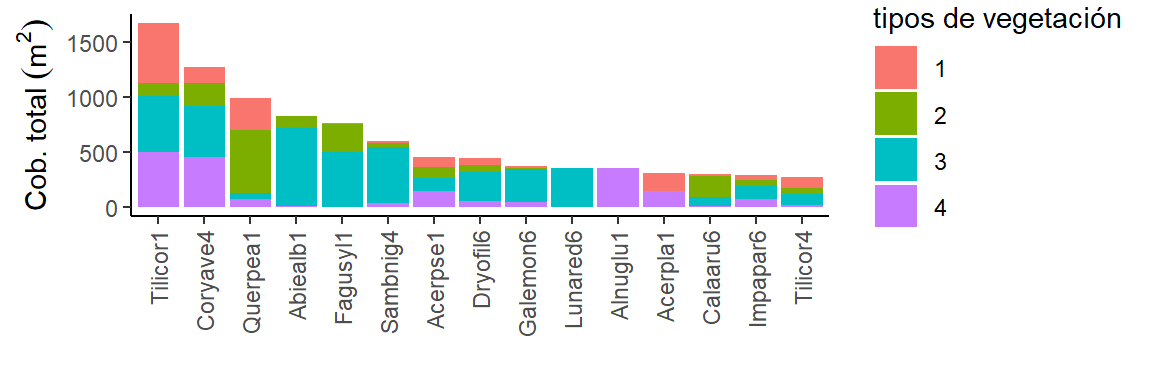
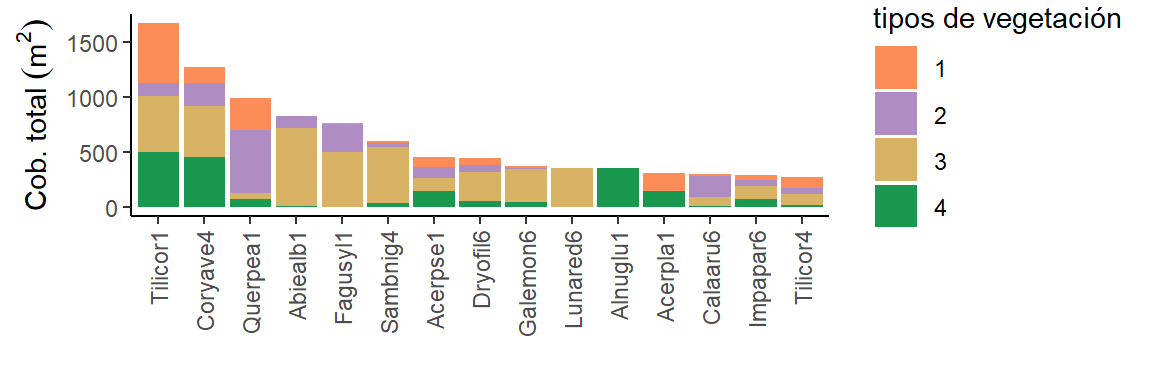
Si

Changed region(s): [[0.0938, 0.2188, 0.7188, 0.5625], [0.75, 0.2188, 0.8125, 0.5938]]

diff --git a/Informe_2doseguimiento_V2.html b/Informe_2doseguimiento_V2.html
@@ -172,7 +172,7 @@ div.csl-indent {
   <li><a href="#diferencias-en-la-altitud-y-orientación-de-las-parcelas-de-acuerdo-a-los-tipos-de-vegetación" id="toc-diferencias-en-la-altitud-y-orientación-de-las-parcelas-de-acuerdo-a-los-tipos-de-vegetación" class="nav-link" data-scroll-target="#diferencias-en-la-altitud-y-orientación-de-las-parcelas-de-acuerdo-a-los-tipos-de-vegetación"><strong>-Diferencias en la altitud y orientación de las parcelas de acuerdo a los tipos de vegetación</strong></a></li>
   <li><a href="#diferencias-en-las-condiciones-ambientales-entre-los-tipos-de-vegetación" id="toc-diferencias-en-las-condiciones-ambientales-entre-los-tipos-de-vegetación" class="nav-link" data-scroll-target="#diferencias-en-las-condiciones-ambientales-entre-los-tipos-de-vegetación"><strong>-Diferencias en las condiciones ambientales entre los tipos de vegetación</strong></a></li>
   <li><a href="#comparación-de-las-condiciones-de-suelo-en-los-distintos-tipos-de-vegetación" id="toc-comparación-de-las-condiciones-de-suelo-en-los-distintos-tipos-de-vegetación" class="nav-link" data-scroll-target="#comparación-de-las-condiciones-de-suelo-en-los-distintos-tipos-de-vegetación"><strong>-Comparación de las condiciones de suelo en los distintos tipos de vegetación</strong></a></li>
-  <li><a href="#comparación-del-area-de-cobertura-contribuida-por-las-15-especies-más-representativas-en-la-totalidad-de-las-parcelas" id="toc-comparación-del-area-de-cobertura-contribuida-por-las-15-especies-más-representativas-en-la-totalidad-de-las-parcelas" class="nav-link" data-scroll-target="#comparación-del-area-de-cobertura-contribuida-por-las-15-especies-más-representativas-en-la-totalidad-de-las-parcelas"><strong>-Comparación del area de cobertura contribuida por las 15 especies más representativas en la totalidad de las parcelas</strong></a></li>
+  <li><a href="#comparación-del-area-de-cobertura-contribuida-por-las-15-especies-con-más-cobertura-en-la-totalidad-de-las-parcelas" id="toc-comparación-del-area-de-cobertura-contribuida-por-las-15-especies-con-más-cobertura-en-la-totalidad-de-las-parcelas" class="nav-link" data-scroll-target="#comparación-del-area-de-cobertura-contribuida-por-las-15-especies-con-más-cobertura-en-la-totalidad-de-las-parcelas"><strong>-Comparación del area de cobertura contribuida por las 15 especies con más cobertura en la totalidad de las parcelas</strong></a></li>
   </ul></li>
   <li><a href="#evaluar-el-efecto-de-las-condiciones-ambientales-sobre-la-composición-y-riqueza-de-plantas-en-los-valles-profundos-del-río-moldavia" id="toc-evaluar-el-efecto-de-las-condiciones-ambientales-sobre-la-composición-y-riqueza-de-plantas-en-los-valles-profundos-del-río-moldavia" class="nav-link" data-scroll-target="#evaluar-el-efecto-de-las-condiciones-ambientales-sobre-la-composición-y-riqueza-de-plantas-en-los-valles-profundos-del-río-moldavia"><strong>3.</strong> Evaluar el efecto de las condiciones ambientales sobre la composición y riqueza de plantas en los valles profundos del río Moldavia</a></li>
   </ul>
@@ -356,7 +356,7 @@ div.csl-indent {
 <h2 class="anchored" data-anchor-id="determinar-la-relación-entre-las-variables-ambientales-evaluadas-en-los-valles-profundos-del-rió-de-moldavia"><strong>1. Determinar la relación entre las variables ambientales evaluadas en los valles profundos del rió de Moldavia</strong></h2>
 <section id="relación-entre-variables-topográficas-y-topológicas" class="level3">
 <h3 class="anchored" data-anchor-id="relación-entre-variables-topográficas-y-topológicas"><strong>-Relación entre variables topográficas y topológicas</strong></h3>
-<p>A partir de correlogramas se puede tener una vista general de la relaciones entre las variables, visualizando el grado de correlación con el indice de Spearman y el nivel de significancia de estas relaciones. Por ejemplo, la <a href="#fig-fig1" class="quarto-xref">Figura&nbsp;1</a> refleja la estrecha relación positiva entre las variables de orientación suroeste y la orientación sur-suroeste con un valor de 0.83 de correlación entre sus datos con el mayor nivel de significancia(p-value&lt;0.001), así mismo pasaría con los indices de capacidad calorifica que se derivan de estos, los cuales tienen una correlación positiva entre si, en la que las variaciones de uno se explicarian por las variaciones del otro en el 0.79 de los datos, esto se entiende ya que el cambio en la orientación suroeste entre las parcelas también deberia ser acompoñada por cambios en la orientación sur-suroeste. El tipo de relieve a favor de la pendiente tiende a ser más convexa a medida que aumenta la altitud, esto se evidencia por un grado de correlación del 0.62 . Entre los tipos de suelo, el fluvisol tiene una correlación considerablemente negativa con la altitud y las superficies en dirección a la pendiente (-0.62 y -0.67), teniendo el mayor nivel de significancia.</p>
+<p>A partir de correlogramas se puede tener una vista general de la relaciones entre las variables, visualizando el grado de correlación con el indice de Spearman y el nivel de significancia de estas relaciones. Por ejemplo, la <a href="#fig-fig1" class="quarto-xref">Figura&nbsp;1</a> refleja la estrecha relación positiva entre las variables de orientación suroeste y la orientación sur-suroeste con un valor de 0.83 de correlación entre sus datos con el mayor nivel de significancia(p-value&lt;0.001), así mismo pasaría con los indices de carga calorifica que se derivan de estos, los cuales tienen una correlación positiva entre si, en la que las variaciones de uno se explicarian por las variaciones del otro en el 0.79 de los datos, esto se entiende ya que el cambio en la orientación suroeste entre las parcelas también deberia ser acompoñada por cambios en la orientación sur-suroeste. El tipo de relieve a favor de la pendiente tiende a ser más convexa a medida que aumenta la altitud, esto se evidencia por un grado de correlación del 0.62 . Entre los tipos de suelo, el fluvisol tiene una correlación considerablemente negativa con la altitud y las superficies en dirección a la pendiente (-0.62 y -0.67), teniendo el mayor nivel de significancia.</p>
 <div class="cell">
 <details class="code-fold">
 <summary>Código</summary>
@@ -609,7 +609,7 @@ Figura&nbsp;4: Análisis por componentes principales a partir de los dos primero
 <p>La <a href="#fig-fig4" class="quarto-xref">Figura&nbsp;4</a> nos presenta los resultados del análisis por componentes principales, en el que la variación se da en función de tres conjuntos de variables. Uno de ellos está conformado por la orientación sur-suroeste, la temperatura, la continentalidad, la carga calorífica y la luz, los cuales tienen direcciones casi ortogonales respecto al resto de las variables. Otro conjunto está compuesto por la pendiente, la superficie en pendiente, la superficie en isohipsas y la elevación, en dirección contraria al primer grupo. Por lo tanto, es probable que estas variables tengan una relación negativa con el tercer conjunto, que incluye la humedad, la reactividad, los nutrientes del suelo, el pH, la temperatura y la continentalidad del clima.</p>
 <p>En cuanto a los factores de agrupación, se podría interpretar que los suelos con condición de fluvisol, esqueléticos y líticos están más asociados a un grupo de variables, mientras que los cambisoles muestran una asociación menos estrecha con un grupo particular, lo que genera una elipse bastante amplia a lo largo de los ejes. No obstante, se requieren análisis exploratorios confirmatorios, ya que el porcentaje de variación acumulado entre los dos componentes principales podría no ser suficiente para una interpretación correcta (51.7%).</p>
 <p>En el caso de los fluvisoles, estos son suelos con altos valores de humedad, nutrientes, reactividad, profundidad y pH. El tipo de suelo esquelético evidencia la misma tendencia, pero con una concentración de datos hacia valores más intermedios en estas variables, lo que genera una elipse más amplia hacia el centro de los ejes. Es importante destacar que la relación positiva con estas variables refleja a su vez una relación negativa con las variables que se representan con vectores con sentido contrario a estas, como la elevación, la pendiente y el tipo de superficie o relieve. Esta última corresponde a una variable tricotómica, donde el valor -1 indica un tipo de relieve cóncavo. De manera que los suelos fluvisoles y esqueléticos tienen mayor incidencia en relieves cóncavos, disminuyendo a medida que el relieve se vuelve más convexo (<a href="#fig-fig5" class="quarto-xref">Figura&nbsp;5</a> B y E).</p>
-<p>Estas características le otorgan a los sitios la capacidad de ser sumideros, acumulando humedad, nutrientes y sedimentos, lo que favorece una mayor profundidad del suelo, como evidencian los resultados del PCA (<a href="#fig-fig4" class="quarto-xref">Figura&nbsp;4</a>) y los gráficos exploratorios de la <a href="#fig-fig5" class="quarto-xref">Figura&nbsp;5</a> (E y F). Por otro lado, los suelos líticos y cambisoles tienden a aumentar su incidencia a medida que incrementa la altitud y la pendiente, manteniéndose en relieves neutros o convexos (<a href="#fig-fig5" class="quarto-xref">Figura&nbsp;5</a> A y C). Esto sugiere que son sitios con menor acumulación y más susceptibles a la escorrentía.</p>
+<p>Estas características le otorgan a los sitios la capacidad de ser sumideros, acumulando humedad, nutrientes y sedimentos, lo que favorece una mayor profundidad del suelo, como evidencian los resultados del PCA (<a href="#fig-fig4" class="quarto-xref">Figura&nbsp;4</a>) y los gráficos exploratorios de la <a href="#fig-fig5" class="quarto-xref">Figura&nbsp;5</a> (E y F). Por otro lado, los suelos líticos y cambisoles tienden a aumentar su incidencia a medida que incrementa la altitud y la pendiente, manteniéndose en relieves neutros o convexos (<a href="#fig-fig5" class="quarto-xref">Figura&nbsp;5</a> A y C). Esto sugiere que son sitios con menor acumulación de recursos.</p>
 <div class="cell">
 <details class="code-fold">
 <summary>Código</summary>
@@ -643,16 +643,16 @@ Figura&nbsp;5: Condiciones ambientales asociadas a los tipos de suelos.A) Porcen
 <span id="cb10-3"><a href="#cb10-3" aria-hidden="true" tabindex="-1"></a><span class="co"># Crear el gráfico</span></span>
 <span id="cb10-4"><a href="#cb10-4" aria-hidden="true" tabindex="-1"></a><span class="fu">ggplot</span>(datos_env) <span class="sc">+</span> </span>
 <span id="cb10-5"><a href="#cb10-5" aria-hidden="true" tabindex="-1"></a>  <span class="fu">geom_point</span>(<span class="fu">aes</span>(<span class="at">x =</span> dirección, <span class="at">y =</span> datos_env<span class="sc">$</span>Elevación, <span class="at">shape =</span> <span class="fu">factor</span>(datos_env<span class="sc">$</span>Grupos), <span class="at">colour =</span> <span class="fu">factor</span>(datos_env<span class="sc">$</span>Grupos)), <span class="at">size =</span> <span class="fl">2.5</span>) <span class="sc">+</span> </span>
-<span id="cb10-6"><a href="#cb10-6" aria-hidden="true" tabindex="-1"></a>  <span class="fu">coord_polar</span>(<span class="at">start =</span> <span class="fl">2.35619</span> ,<span class="at">direction =</span> <span class="sc">-</span><span class="dv">1</span>) <span class="sc">+</span>  <span class="co"># Transforma el gráfico en circular</span></span>
+<span id="cb10-6"><a href="#cb10-6" aria-hidden="true" tabindex="-1"></a>  <span class="fu">coord_polar</span>(<span class="at">start =</span> <span class="fl">5.49778266</span> ,<span class="at">direction =</span> <span class="sc">-</span><span class="dv">1</span>) <span class="sc">+</span>  <span class="co"># Transforma el gráfico en circular</span></span>
 <span id="cb10-7"><a href="#cb10-7" aria-hidden="true" tabindex="-1"></a>  <span class="fu">theme_minimal</span>() <span class="sc">+</span></span>
 <span id="cb10-8"><a href="#cb10-8" aria-hidden="true" tabindex="-1"></a>  <span class="fu">labs</span>(<span class="at">title =</span> <span class="st">"Distribución de los TV en altitud y orientación"</span>,</span>
 <span id="cb10-9"><a href="#cb10-9" aria-hidden="true" tabindex="-1"></a>       <span class="at">x =</span> <span class="st">"Orientación"</span>,</span>
 <span id="cb10-10"><a href="#cb10-10" aria-hidden="true" tabindex="-1"></a>       <span class="at">y =</span> <span class="st">"Altitud"</span>, <span class="at">colour =</span> <span class="st">"TV"</span>,<span class="at">shape =</span><span class="st">"TV"</span>) <span class="sc">+</span> </span>
 <span id="cb10-11"><a href="#cb10-11" aria-hidden="true" tabindex="-1"></a>  <span class="fu">scale_x_continuous</span>(<span class="at">limits =</span> <span class="fu">c</span>(<span class="sc">-</span><span class="dv">180</span>,<span class="dv">180</span>), <span class="at">breaks =</span> <span class="fu">c</span>(<span class="sc">-</span><span class="dv">45</span>,<span class="dv">45</span>,<span class="dv">135</span>,<span class="sc">-</span><span class="dv">135</span>), </span>
-<span id="cb10-12"><a href="#cb10-12" aria-hidden="true" tabindex="-1"></a>                     <span class="at">labels =</span> <span class="fu">c</span>(<span class="st">"E"</span>,<span class="st">"N"</span>,<span class="st">"O"</span>,<span class="st">"S"</span>), <span class="at">minor_breaks =</span> <span class="fu">c</span>(<span class="sc">-</span><span class="dv">90</span>,<span class="dv">0</span>,<span class="dv">90</span>,<span class="dv">180</span>)) <span class="sc">+</span> <span class="co"># Ejes con direcciones cardinales</span></span>
+<span id="cb10-12"><a href="#cb10-12" aria-hidden="true" tabindex="-1"></a>                     <span class="at">labels =</span> <span class="fu">c</span>(<span class="st">"E"</span>,<span class="st">"S"</span>,<span class="st">"O"</span>,<span class="st">"N"</span>), <span class="at">minor_breaks =</span> <span class="fu">c</span>(<span class="sc">-</span><span class="dv">90</span>,<span class="dv">0</span>,<span class="dv">90</span>,<span class="dv">180</span>)) <span class="sc">+</span> <span class="co"># Ejes con direcciones cardinales</span></span>
 <span id="cb10-13"><a href="#cb10-13" aria-hidden="true" tabindex="-1"></a>  <span class="fu">theme</span>(<span class="at">legend.position =</span> <span class="st">"right"</span>) <span class="sc">+</span></span>
 <span id="cb10-14"><a href="#cb10-14" aria-hidden="true" tabindex="-1"></a>  <span class="fu">scale_y_continuous</span>(<span class="at">limits =</span> <span class="fu">c</span>(<span class="dv">380</span>, <span class="dv">540</span>), <span class="at">breaks =</span> <span class="fu">c</span>(<span class="dv">400</span>,<span class="dv">425</span>,<span class="dv">450</span>,<span class="dv">475</span>,<span class="dv">500</span>,<span class="dv">525</span>,<span class="dv">550</span>)) <span class="sc">+</span> <span class="co"># Dejar un espacio en el centro</span></span>
-<span id="cb10-15"><a href="#cb10-15" aria-hidden="true" tabindex="-1"></a><span class="fu">theme_light</span>()</span></code><button title="Copiar al portapapeles" class="code-copy-button"><i class="bi"></i></button></pre></div>
+<span id="cb10-15"><a href="#cb10-15" aria-hidden="true" tabindex="-1"></a><span class="fu">theme_light</span>() <span class="sc">+</span>   <span class="fu">scale_colour_manual</span>(<span class="at">values =</span> <span class="fu">c</span>(<span class="st">"#fc8d59"</span>,<span class="st">"#af8dc3"</span>,<span class="st">"#d8b365"</span>,<span class="st">"#1a9850"</span>))</span></code><button title="Copiar al portapapeles" class="code-copy-button"><i class="bi"></i></button></pre></div>
 </details>
 <div class="cell-output-display">
 <div id="fig-fig10" class="quarto-figure quarto-figure-center quarto-float anchored">
@@ -670,9 +670,10 @@ Figura&nbsp;6: Distribución de los tipos de emsamblajes vegetales en relación 
 </section>
 <section id="diferencias-en-las-condiciones-ambientales-entre-los-tipos-de-vegetación" class="level3">
 <h3 class="anchored" data-anchor-id="diferencias-en-las-condiciones-ambientales-entre-los-tipos-de-vegetación"><strong>-Diferencias en las condiciones ambientales entre los tipos de vegetación</strong></h3>
-<p>La <a href="#fig-fig11" class="quarto-xref">Figura&nbsp;7</a> muestra el patrón de variación de algunas variables topológicas y topográficas entre los diferentes tipos de vegetación evaluados. Se observa que los mayores valores de luz y temperatura se registraron en el ensamblaje tipo 1, seguido por el tipo 2, mientras que los menores valores correspondieron a el tipo 3. Sin embargo, las muescas de las cajas para la luz y la temperatura se solapan entre los tipos de vegetación 1, 2 y 4, lo que sugiere que la posibilidad de no diferencias entre estos grupos. En contraste, las muescas del ensamblaje tipo 1 no se solapan con las de los demás tipos, lo que podría insinuar diferencias ente estos tipos de vegetación.En cuanto a la continentalidad, se observa un patrón decreciente desde el ensamblaje tipo 1 hasta el tipo 4, siendo el ensamblaje tipo 1 el que presenta los valores más altos. Los vegetación tipo 3 y 4 muestran valores menores; y mostrando solapamiento en sus muescas; sin embargo, en el ensamblaje tipo 4 se identifica un valor atípico mayor, que podría estar sesgando los resultados.</p>
-<p>A pesar del patrón decreciente de la continentalidad en los los vegetación vegetales, en sentido 1→ 4, existe un solapamiento de las muescas entre los tipos de (1 y 2), (2, 3 y 4), (3 y 4) lo que podría sugerir falta de diferenciación en la continentalidad entre estos grupos, y un posible anidamiento en esta variable. Los valores más altos de nutrientes se registraron en las vegetaciones tipo 4 y 3, respectivamente, sin aparentes diferencias entre estos dos grupos, aunque en el tipo 4 los datos presentaron menor dispersión. Por otro lado, las muescas de las vegetaciones tipo 1 y 2 no se superponen con las del grupo 3 ni con las del grupo 4, lo que podría inferir posibles diferencias en la cantidad de nutrientes entre estos tipos. Sin embargo, no se encontraron posibles diferencias entre los grupos 1 y 2 debido al solapamiento de sus muescas.</p>
-<p>Respecto a la humedad, se identificaron valores más altos en los vegetación tipo 4, los cuales sugieren ser diferentes en comparación con los demás tipos, dado que sus intervalos de confianza (muescas) no se solapan. Por su parte, aunque las vegetaciones tipo 1 y 2, así como los tipos 2 y 3 presentaron medianas diferentes, sus intervalos de confianza se superponen; por lo tanto, no se sugieren diferencias entre estos pares de grupos. Sin embargo, sí se sugiere diferencias entre los grupos 1 y 3.Finalmente, con relación a la reactividad, los mayores valores se observaron en los vegetación tipo 4. No obstante, las muescas de este grupo se solapan con las de las vegetaciones tipo 1 y 3, por lo que posiblemente se podría considerar la no existencia de diferencia entre estos. En contraste, los vegetación tipo 2 presentó los menores valores de reactividad y sugiere una posible diferencia con respecto a los demás tipos debido a que sus intervalos de confianza no se solapan con ninguna otra caja del gráfico.</p>
+<p>La <a href="#fig-fig11" class="quarto-xref">Figura&nbsp;7</a> muestra el patrón de variación de variables topológicas, topográficas, cobertura y riqueza (a parte de la altura y la orientación) entre los diferentes tipos de vegetación. Evidenciando dos tipos de tendencia, una en la que los sitios con el tipo de vegetación <strong>1</strong>, que se concentran en mayor medida hacia el sur en alturas intermedias y altas, mantienen mayores valores de luz, temperatura, carga calorifica, climas más continentales y pendientes más inclinadas <strong>(A; E; I; C; L)</strong>. Teniendo diferencias aparentemente sustanciales con los tipos de vegetación <strong>2 y 4</strong> y posiblemente significativas con el tipo de vegetación <strong>3</strong> en algunas de estas variables (La falta de solapamiento de muescas no es suficiente para determinar diferencias significativas).</p>
+<p>La otra tendencia se observa en las variables de humedad, nutrientes, reactividad. ph y profundidad del suelo <strong>(B;D;F;G y J)</strong>, que mantiene mayores valores en los sitios con tipo de vegetación <strong>4</strong> que se ubican en zonas de baja altitud, donde hay más sumideros e incidencia de sombra, favoreciendo el efecto de fenomeno de rivera, seguidos por sitios con el tipo de vegetación <strong>3</strong> que se ubican más hacia el norte donde la exposición a los rayos del sol es menor a lo largo del año, por este motivo el tipo de vegetación <strong>3</strong>, mantiene los menores valores de temperatura, luz, clima continental y carga calorifica.</p>
+<ul>
+<li><div>
 <div class="cell">
 <details class="code-fold">
 <summary>Código</summary>
@@ -743,7 +744,7 @@ Figura&nbsp;6: Distribución de los tipos de emsamblajes vegetales en relación 
 <div id="fig-fig11" class="quarto-figure quarto-figure-center quarto-float anchored">
 <figure class="quarto-float quarto-float-fig figure">
 <div aria-describedby="fig-fig11-caption-0ceaefa1-69ba-4598-a22c-09a6ac19f8ca">
-<img src="Informe_2doseguimiento_V2_files/figure-html/fig-fig11-1.png" class="img-fluid figure-img" width="960">
+<img src="Informe_2doseguimiento_V2_files/figure-html/fig-fig11-1.png" class="img-fluid figure-img" width="1152">
 </div>
 <figcaption class="quarto-float-caption-bottom quarto-float-caption quarto-float-fig" id="fig-fig11-caption-0ceaefa1-69ba-4598-a22c-09a6ac19f8ca">
 Figura&nbsp;7: Comparación de las variables topológicas y topográficas en los cuatro tipos de vegetación. A)Luz; B)Temperatura; C)Indice de CC E)Profundidad del suelo; F)Nutrientes; G)pH del suelo; H)Cobertura del suelo(%); I)Humedad; J)Reactividad; K)Riqueza de sps; L)Pendiente (°).
@@ -752,6 +753,8 @@ Figura&nbsp;7: Comparación de las variables topológicas y topográficas en los
 </div>
 </div>
 </div>
+</div></li>
+</ul>
 </section>
 <section id="comparación-de-las-condiciones-de-suelo-en-los-distintos-tipos-de-vegetación" class="level3">
 <h3 class="anchored" data-anchor-id="comparación-de-las-condiciones-de-suelo-en-los-distintos-tipos-de-vegetación"><strong>-Comparación de las condiciones de suelo en los distintos tipos de vegetación</strong></h3>
@@ -775,7 +778,7 @@ Figura&nbsp;7: Comparación de las variables topológicas y topográficas en los
 <span id="cb12-14"><a href="#cb12-14" aria-hidden="true" tabindex="-1"></a>g12 <span class="ot">&lt;-</span> <span class="fu">ggplot</span>(datos_resum2, <span class="fu">aes</span>(<span class="at">x=</span> Grupos , <span class="at">y=</span>datos.sum, <span class="at">fill =</span> Suelos)) <span class="sc">+</span> </span>
 <span id="cb12-15"><a href="#cb12-15" aria-hidden="true" tabindex="-1"></a>     <span class="fu">geom_bar</span>(<span class="at">stat=</span><span class="st">"identity"</span>, </span>
 <span id="cb12-16"><a href="#cb12-16" aria-hidden="true" tabindex="-1"></a>              <span class="at">position=</span> <span class="st">"dodge"</span>) <span class="sc">+</span><span class="fu">theme_classic</span>() <span class="sc">+</span> <span class="fu">theme</span>(<span class="at">axis.text.x =</span> <span class="fu">element_text</span>(<span class="at">angle =</span> <span class="dv">90</span>, <span class="at">vjust =</span> <span class="fl">0.5</span>, <span class="at">hjust=</span><span class="dv">1</span>)) <span class="sc">+</span> <span class="fu">labs</span>(<span class="at">x=</span> <span class="st">"Tipos de vegetación"</span>, <span class="at">y =</span> <span class="st">"Frecuencia"</span>, <span class="at">fill =</span> <span class="st">"Condiciones de suelo"</span>)  <span class="sc">+</span> </span>
-<span id="cb12-17"><a href="#cb12-17" aria-hidden="true" tabindex="-1"></a>  <span class="fu">scale_fill_manual</span>(<span class="at">values =</span> <span class="fu">c</span>(<span class="st">"#d7191c"</span>,<span class="st">"#fdae61"</span>,<span class="st">"#ffffbf"</span>,<span class="st">"#91cf60"</span>))</span>
+<span id="cb12-17"><a href="#cb12-17" aria-hidden="true" tabindex="-1"></a>  <span class="fu">scale_fill_manual</span>(<span class="at">values =</span> <span class="fu">c</span>(<span class="st">"#d7191c"</span>,<span class="st">"#fdae61"</span>,<span class="st">"purple"</span>,<span class="st">"#91cf60"</span>))</span>
 <span id="cb12-18"><a href="#cb12-18" aria-hidden="true" tabindex="-1"></a></span>
 <span id="cb12-19"><a href="#cb12-19" aria-hidden="true" tabindex="-1"></a>g12</span></code><button title="Copiar al portapapeles" class="code-copy-button"><i class="bi"></i></button></pre></div>
 </details>
@@ -793,11 +796,11 @@ Figura&nbsp;8: Comparación de las condiciones de suelo en los distintos tipos d
 </div>
 </div>
 </section>
-<section id="comparación-del-area-de-cobertura-contribuida-por-las-15-especies-más-representativas-en-la-totalidad-de-las-parcelas" class="level3">
-<h3 class="anchored" data-anchor-id="comparación-del-area-de-cobertura-contribuida-por-las-15-especies-más-representativas-en-la-totalidad-de-las-parcelas"><strong>-Comparación del area de cobertura contribuida por las 15 especies más representativas en la totalidad de las parcelas</strong></h3>
-<section id="selección-de-las-15-especies-más-abundantes" class="level4">
-<h4 class="anchored" data-anchor-id="selección-de-las-15-especies-más-abundantes"><strong>Selección de las 15 especies más abundantes</strong></h4>
-<p>Se convierten los porcentajes de cobertura de cada especie a valores en metros cuadrados ($m^2$) para, posteriormente, seleccionar las 15 especies con mayor cobertura. Luego, se determina cuánto contribuye en cobertura cada una de estas especies en los diferentes tipos de vegetación .</p>
+<section id="comparación-del-area-de-cobertura-contribuida-por-las-15-especies-con-más-cobertura-en-la-totalidad-de-las-parcelas" class="level3">
+<h3 class="anchored" data-anchor-id="comparación-del-area-de-cobertura-contribuida-por-las-15-especies-con-más-cobertura-en-la-totalidad-de-las-parcelas"><strong>-Comparación del area de cobertura contribuida por las 15 especies con más cobertura en la totalidad de las parcelas</strong></h3>
+<section id="selección-de-las-15-especies-con-más-cobertura" class="level4">
+<h4 class="anchored" data-anchor-id="selección-de-las-15-especies-con-más-cobertura"><strong>Selección de las 15 especies con más cobertura</strong></h4>
+<p>Se convierten los porcentajes de cobertura de cada especie a valores en metros cuadrados ($m^2$) para, posteriormente, seleccionar las 15 especies con mayor cobertura. Luego, se determina cuánto contribuye en cobertura cada una de estas especies en los diferentes tipos de vegetación.</p>
 <ul>
 <li><strong>Conversión del porcentaje de cobertura a área de cobertura:</strong></li>
 </ul>
@@ -910,7 +913,7 @@ Tabla&nbsp;1: Área de cobertura total de cada especie.
 <summary>Código</summary>
 <div class="sourceCode cell-code" id="cb15"><pre class="sourceCode r code-with-copy"><code class="sourceCode r"><span id="cb15-1"><a href="#cb15-1" aria-hidden="true" tabindex="-1"></a>g11 <span class="ot">&lt;-</span> <span class="fu">ggplot</span>(datos_resum1, <span class="fu">aes</span>(<span class="at">x=</span> <span class="fu">reorder</span>(Especies, <span class="sc">-</span>datos.sum) , <span class="at">y=</span>datos.sum, <span class="at">fill =</span> Grupos)) <span class="sc">+</span> </span>
 <span id="cb15-2"><a href="#cb15-2" aria-hidden="true" tabindex="-1"></a>     <span class="fu">geom_bar</span>(<span class="at">stat=</span><span class="st">"identity"</span>, </span>
-<span id="cb15-3"><a href="#cb15-3" aria-hidden="true" tabindex="-1"></a>              <span class="at">position=</span> <span class="st">"stack"</span>) <span class="sc">+</span><span class="fu">theme_classic</span>() <span class="sc">+</span> <span class="fu">theme</span>(<span class="at">axis.text.x =</span> <span class="fu">element_text</span>(<span class="at">angle =</span> <span class="dv">90</span>, <span class="at">vjust =</span> <span class="fl">0.5</span>, <span class="at">hjust=</span><span class="dv">1</span>)) <span class="sc">+</span> <span class="fu">labs</span>(<span class="at">x=</span> <span class="st">""</span>, <span class="at">y =</span> <span class="fu">expression</span>(<span class="st">"Cob. total"</span><span class="sc">~</span>(m<span class="sc">^</span><span class="dv">2</span>)), <span class="at">fill =</span> <span class="st">"tipos de vegetación"</span>)</span>
+<span id="cb15-3"><a href="#cb15-3" aria-hidden="true" tabindex="-1"></a>              <span class="at">position=</span> <span class="st">"stack"</span>) <span class="sc">+</span><span class="fu">theme_classic</span>() <span class="sc">+</span> <span class="fu">theme</span>(<span class="at">axis.text.x =</span> <span class="fu">element_text</span>(<span class="at">angle =</span> <span class="dv">90</span>, <span class="at">vjust =</span> <span class="fl">0.5</span>, <span class="at">hjust=</span><span class="dv">1</span>)) <span class="sc">+</span> <span class="fu">labs</span>(<span class="at">x=</span> <span class="st">""</span>, <span class="at">y =</span> <span class="fu">expression</span>(<span class="st">"Cob. total"</span><span class="sc">~</span>(m<span class="sc">^</span><span class="dv">2</span>)), <span class="at">fill =</span> <span class="st">"tipos de vegetación"</span>)  <span class="sc">+</span>   <span class="fu">scale_fill_manual</span>(<span class="at">values =</span> <span class="fu">c</span>(<span class="st">"#fc8d59"</span>,<span class="st">"#af8dc3"</span>,<span class="st">"#d8b365"</span>,<span class="st">"#1a9850"</span>))</span>
 <span id="cb15-4"><a href="#cb15-4" aria-hidden="true" tabindex="-1"></a> </span>
 <span id="cb15-5"><a href="#cb15-5" aria-hidden="true" tabindex="-1"></a></span>
 <span id="cb15-6"><a href="#cb15-6" aria-hidden="true" tabindex="-1"></a>g11</span></code><button title="Copiar al portapapeles" class="code-copy-button"><i class="bi"></i></button></pre></div>
@@ -955,7 +958,7 @@ Figura&nbsp;10: Resumen de las relaciones entre las especies y las condiciones d
 </div>
 </div>
 </div>
-<p>En la <a href="#fig-fig15" class="quarto-xref">Figura&nbsp;11</a> se observan la relación entre las variables topográficas y las especies en los valles profundos de Moldavia, utilizando el método de Spearman. Se puede analizar que la gran mayoría de las relaciones que se presentaron fueron débiles, siendo que, dentro de estas, las negativas fueron más frecuentes. Dentro de las relaciones débiles positivas destacan la orientación hacia el sur-suroeste con Abielb1, Lunared6 y Dryofil6. La capacidad de carga caloríca en la orientación sur-suroeste con Abielb1, Dryofil6 y Lunared6. En cuanto a las relaciones débiles positivas, destaca la elevación y Fasugy1, Mientras que la única relación fuerte positiva se presento entre los fluvisoles y Alnuglu1.</p>
+<p>En la <a href="#fig-fig15" class="quarto-xref">Figura&nbsp;11</a> se observan la relación entre las variables topográficas y las especies en los valles profundos de Moldavia, utilizando el método de Spearman. Se puede analizar que la gran mayoría de las relaciones que se presentaron fueron débiles, siendo que, dentro de estas, las negativas fueron más frecuentes. Dentro de las relaciones débiles positivas destacan la orientación hacia el sur-suroeste con Abielb1, Lunared6 y Dryofil6. La carga caloríca en la orientación sur-suroeste con Abielb1, Dryofil6 y Lunared6. En cuanto a las relaciones débiles positivas, destaca la elevación y Fasugy1, Mientras que la única relación fuerte positiva se presento entre los fluvisoles y Alnuglu1.</p>
 <div class="cell">
 <details class="code-fold">
 <summary>Código</summary>
@@ -1112,10 +1115,10 @@ Figura&nbsp;13: Análisis de escalamiento no metrico: Variación de la riqueza y
 </div>
 </div>
 <p><strong>Nota:</strong> El <strong>Stress</strong> de aproximadamente un 21% alcanza a sobrepasar el limite del 20%, por lo que se hace uso de los graficos exploratorios anteriormente realizados para la sustentar una correcta interpretación del escalamiento.</p>
-<p>Los resultados del análisis de Escalamiento No Métrico Multidimensional (NMDS) en la <a href="#fig-fig16" class="quarto-xref">Figura&nbsp;12</a> , permite visualizar la influencia de variables ambientales sobre la composición de taxones de plantas en las parcelas del río Moldavia. Las elipses que rodean los puntos en el gráfico agrupan las parcelas según los cuatro tipos de vegetación identificados en el estudio. Cada flecha o vector representa una variable ambiental que podría influir en la composición de especies, donde las flechas azules corresponden a variables significativas, y las moradas representan aquellas que no alcanzaron significancia estadística, según el ajuste de vectores realizado con la función <code>envfit</code>. Los nombres en texto rojo son los taxones de plantas presentes en las parcelas estudiadas.</p>
+<p>Los resultados del análisis de Escalamiento No Métrico Multidimensional (NMDS) en la <a href="#fig-fig17" class="quarto-xref">Figura&nbsp;13</a> , permite visualizar la influencia de variables ambientales sobre la composición de taxones de plantas en las parcelas del río Moldavia. Las elipses que rodean los puntos en el gráfico agrupan las parcelas según los cuatro tipos de vegetación identificados en el estudio. Cada flecha o vector representa una variable ambiental que podría influir en la composición de especies, donde las flechas azules corresponden a variables significativas, y las negras representan aquellas que no alcanzaron significancia estadística, según el ajuste de vectores realizado con la función <code>envfit</code>. Los nombres en texto rojo son los taxones de plantas presentes en las parcelas estudiadas.</p>
 <p>El análisis NMDS revela la existencia de dos gradientes ambientales principales que influyen en la composición de las comunidades vegetales, y por lo tanto, en los diferentes tipos de vegetación. El primer gradiente está asociado positivamente con las parcelas que presentan suelos fluvisoles, correspondientes al <strong>tipo de vegetación 4</strong>. Este tipo de vegetación se caracteriza por encontrarse en áreas con superficies cóncavas y condiciones ambientales favorables, niveles de pH menos acidos, mayor profundidad del suelo, mayor humedad, reactividad química, y un alto contenido de nutrientes. Estas parcelas también exhiben una mayor cobertura vegetal y riqueza de especies en comparación con los otros tipos de vegetación presentes en el área de estudio.</p>
 <p>Por otro lado, el <strong>tipo de vegetación 2</strong> muestra una relación inversa con estas condiciones. Estas parcelas están ubicadas en suelos líticos, que son menos profundos y se encuentran en áreas de superficies convexas, generalmente a mayor elevación y en pendientes más inclinadas. Esto sugiere que este tipo de vegetación está adaptado a ambientes más extremos o menos favorables en cuanto a la disponibilidad de recursos, en contraste con el tipo de vegetación 4.</p>
-<p>El <strong>tipo de vegetación 1</strong> parece estar influenciado por variables ambientales como la temperatura, la luz, el clima continental y la capacidad calorífica del suelo. Este tipo de vegetación podría estar asociado a áreas con una mayor incidencia de luz solar, ya que, como se ha evidenciado en otros análisis (<a href="#fig-fig10" class="quarto-xref">Figura&nbsp;6</a>), tiende a estar ubicado en parcelas orientadas hacia el sur-suroeste. Estas áreas tienen una mayor exposición solar diaria, lo que podría explicar el predominio de especies adaptadas a estas condiciones ambientales.</p>
+<p>El <strong>tipo de vegetación 1</strong> parece estar influenciado por variables ambientales como la temperatura, la luz, el clima continental y la carga calorífica del suelo. Este tipo de vegetación podría estar asociado a áreas con una mayor incidencia de luz solar, ya que, como se ha evidenciado en otros análisis exploratorios (<a href="#fig-fig11" class="quarto-xref">Figura&nbsp;7</a>), tiende a estar ubicado en parcelas orientadas hacia el sur-suroeste. Estas áreas tienen una mayor exposición solar diaria, lo que podría explicar el predominio de especies adaptadas a estas condiciones ambientales.</p>
 <p>Finalmente, el <strong>tipo de vegetación 3</strong> se encuentra en niveles intermedios de las variables ambientales mencionadas, asociándose principalmente a los niveles de nutrientes y a la elevación. Esto indica que este tipo de vegetación podría estar ocupando zonas de transición entre los extremos representados por los otros tipos de vegetación. Así, el análisis muestra que la composición de especies y la estructura de las comunidades vegetales están fuertemente influenciadas por una interacción compleja de factores ambientales, lo que da lugar a una diferenciación clara entre los tipos de vegetación presentes en las parcelas del río Moldavia.</p>
 
 </section>
